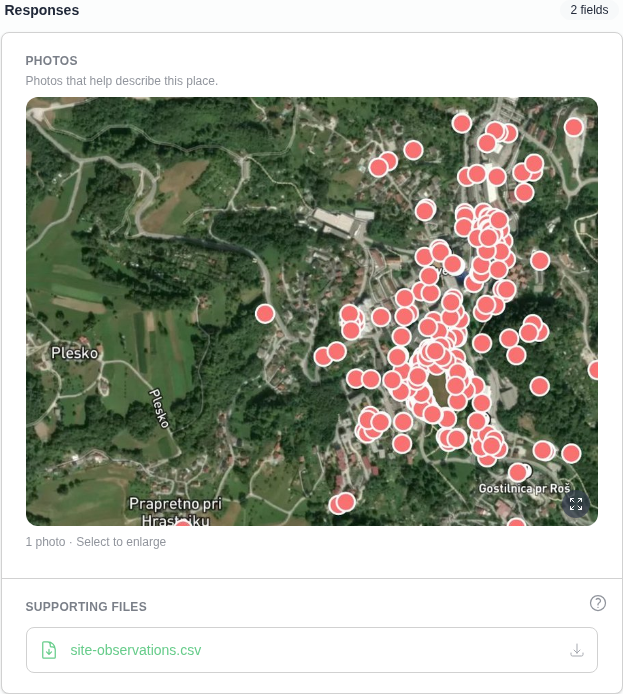
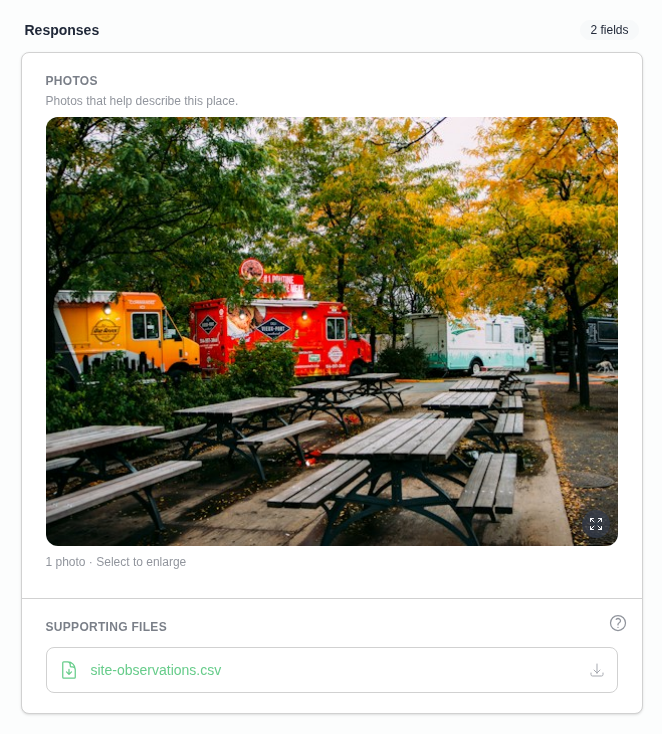
Refresh upload guide copy and park photo screenshots

diff --git a/src/content/docs/uploads.md b/src/content/docs/uploads.md
@@ -1,11 +1,11 @@
 ---
-title: Photos & files
+title: Photo & file uploads
 description: Collect photos and files with survey answers and map features, review them, and manage your team's storage.
 ---
 
-Add a Photo or File question so your respondents can add attachments to their map data and survey responses. {% .lead %}
+Invite survey respondents to upload photos and files, or attach them to map points. {% .lead %}
 
-{% next-image src="/images/docs/upload-photos-and-files.png" width=673 height=737 alt="Photo and File questions with two uploaded photo previews, a supporting spreadsheet, and buttons to add more attachments" /%}
+{% next-image src="/images/docs/upload-photos-and-files.png" width=737 height=801 alt="Photo and File questions with two uploaded photo previews, a supporting spreadsheet, and buttons to add more attachments" /%}
 
 ## Add a question
 
@@ -37,7 +37,7 @@ As a project manager, you can see how many files each answer contains in the **D
 
 The **Map Editor** also shows saved attachments in feature details, with photos you can enlarge and links to download files.
 
-{% next-image src="/images/docs/map-file-attachments.png" width=623 height=694 alt="Saved map feature responses in the Map Editor showing a photo preview, a private file download, and the file privacy help icon" /%}
+{% next-image src="/images/docs/map-file-attachments.png" width=662 height=734 alt="Saved map feature responses in the Map Editor showing a photo preview, a private file download, and the file privacy help icon" /%}
 
 [Data exports](/docs/export-data) contain a link to each file in the CSV. The ZIP does not include the files themselves (full data export is on our roadmap, coming soon!). Download any files you want to keep separately, especially before deleting their answers.
 
@@ -67,7 +67,7 @@ Uploaded files and photos must not violate our [Acceptable Use Policy](/acceptab
 
 Teams on the Pro and Custom plans receive **1 TB** of upload storage by default, shared across all their projects. Free and Personal teams have no upload storage by default. Your team's **Team Plan** card shows **Storage limit** and **Storage used** beside participant usage. These figures appear when the team has a storage allowance or stored files; teams with retained files and no allowance still see their usage. See [Pricing](/docs/pricing).
 
-{% next-image src="/images/docs/upload-storage.png" width=961 height=267 alt="Team Plan card with participant usage, a 1000 GB storage limit, and storage used displayed as matching label and value pairs" /%}
+{% next-image src="/images/docs/upload-storage.png" width=1008 height=315 alt="Team Plan card with participant usage, a 1000 GB storage limit, and storage used displayed as matching label and value pairs" /%}
 
 When storage is full, new uploads are blocked immediately. Existing files remain available to people who can access them. Contact us and we can customize your plan to increase this limit.
 
